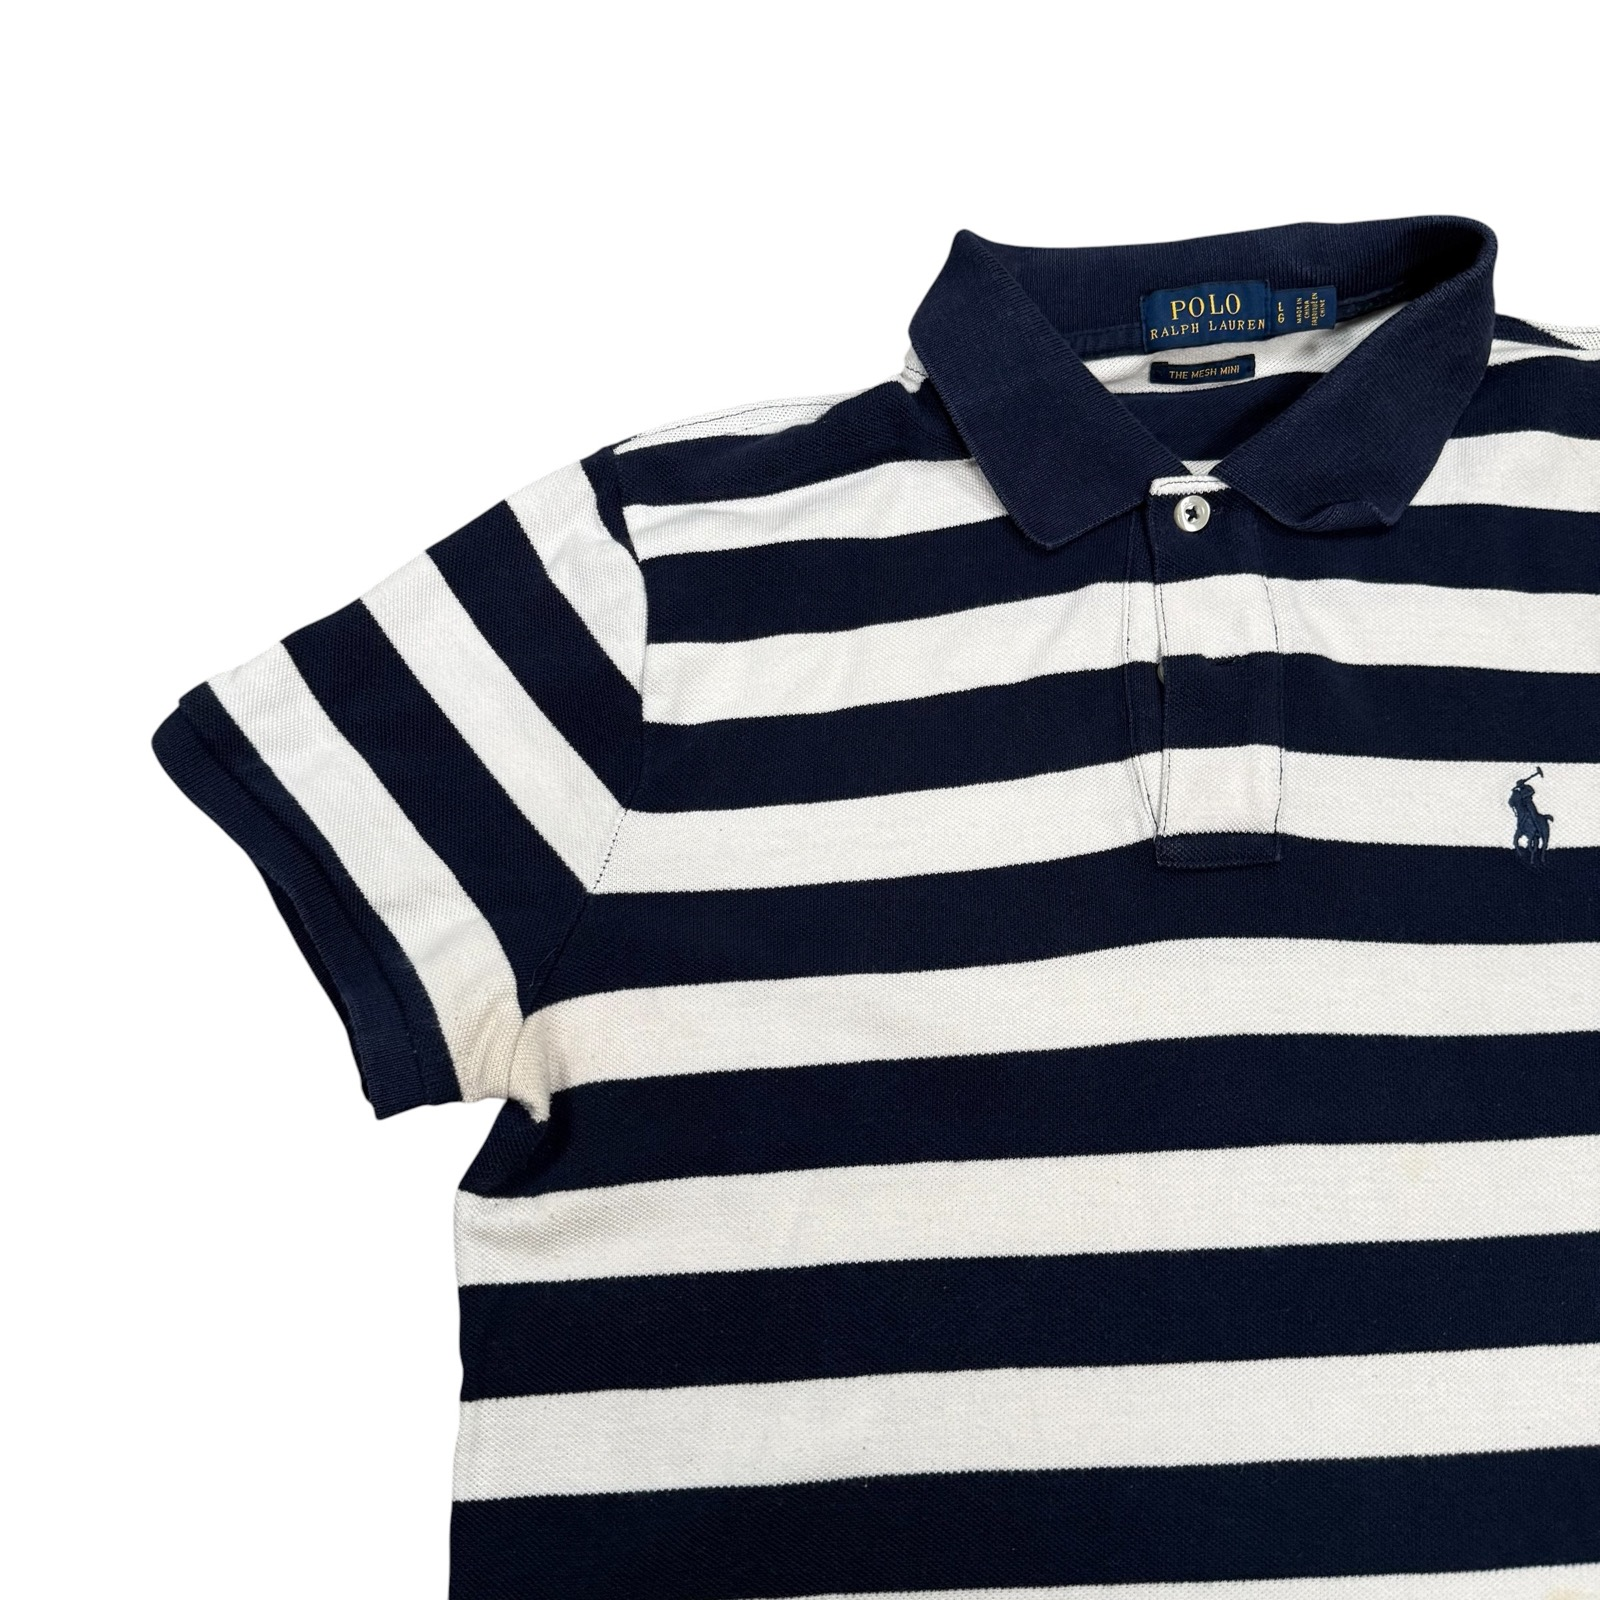
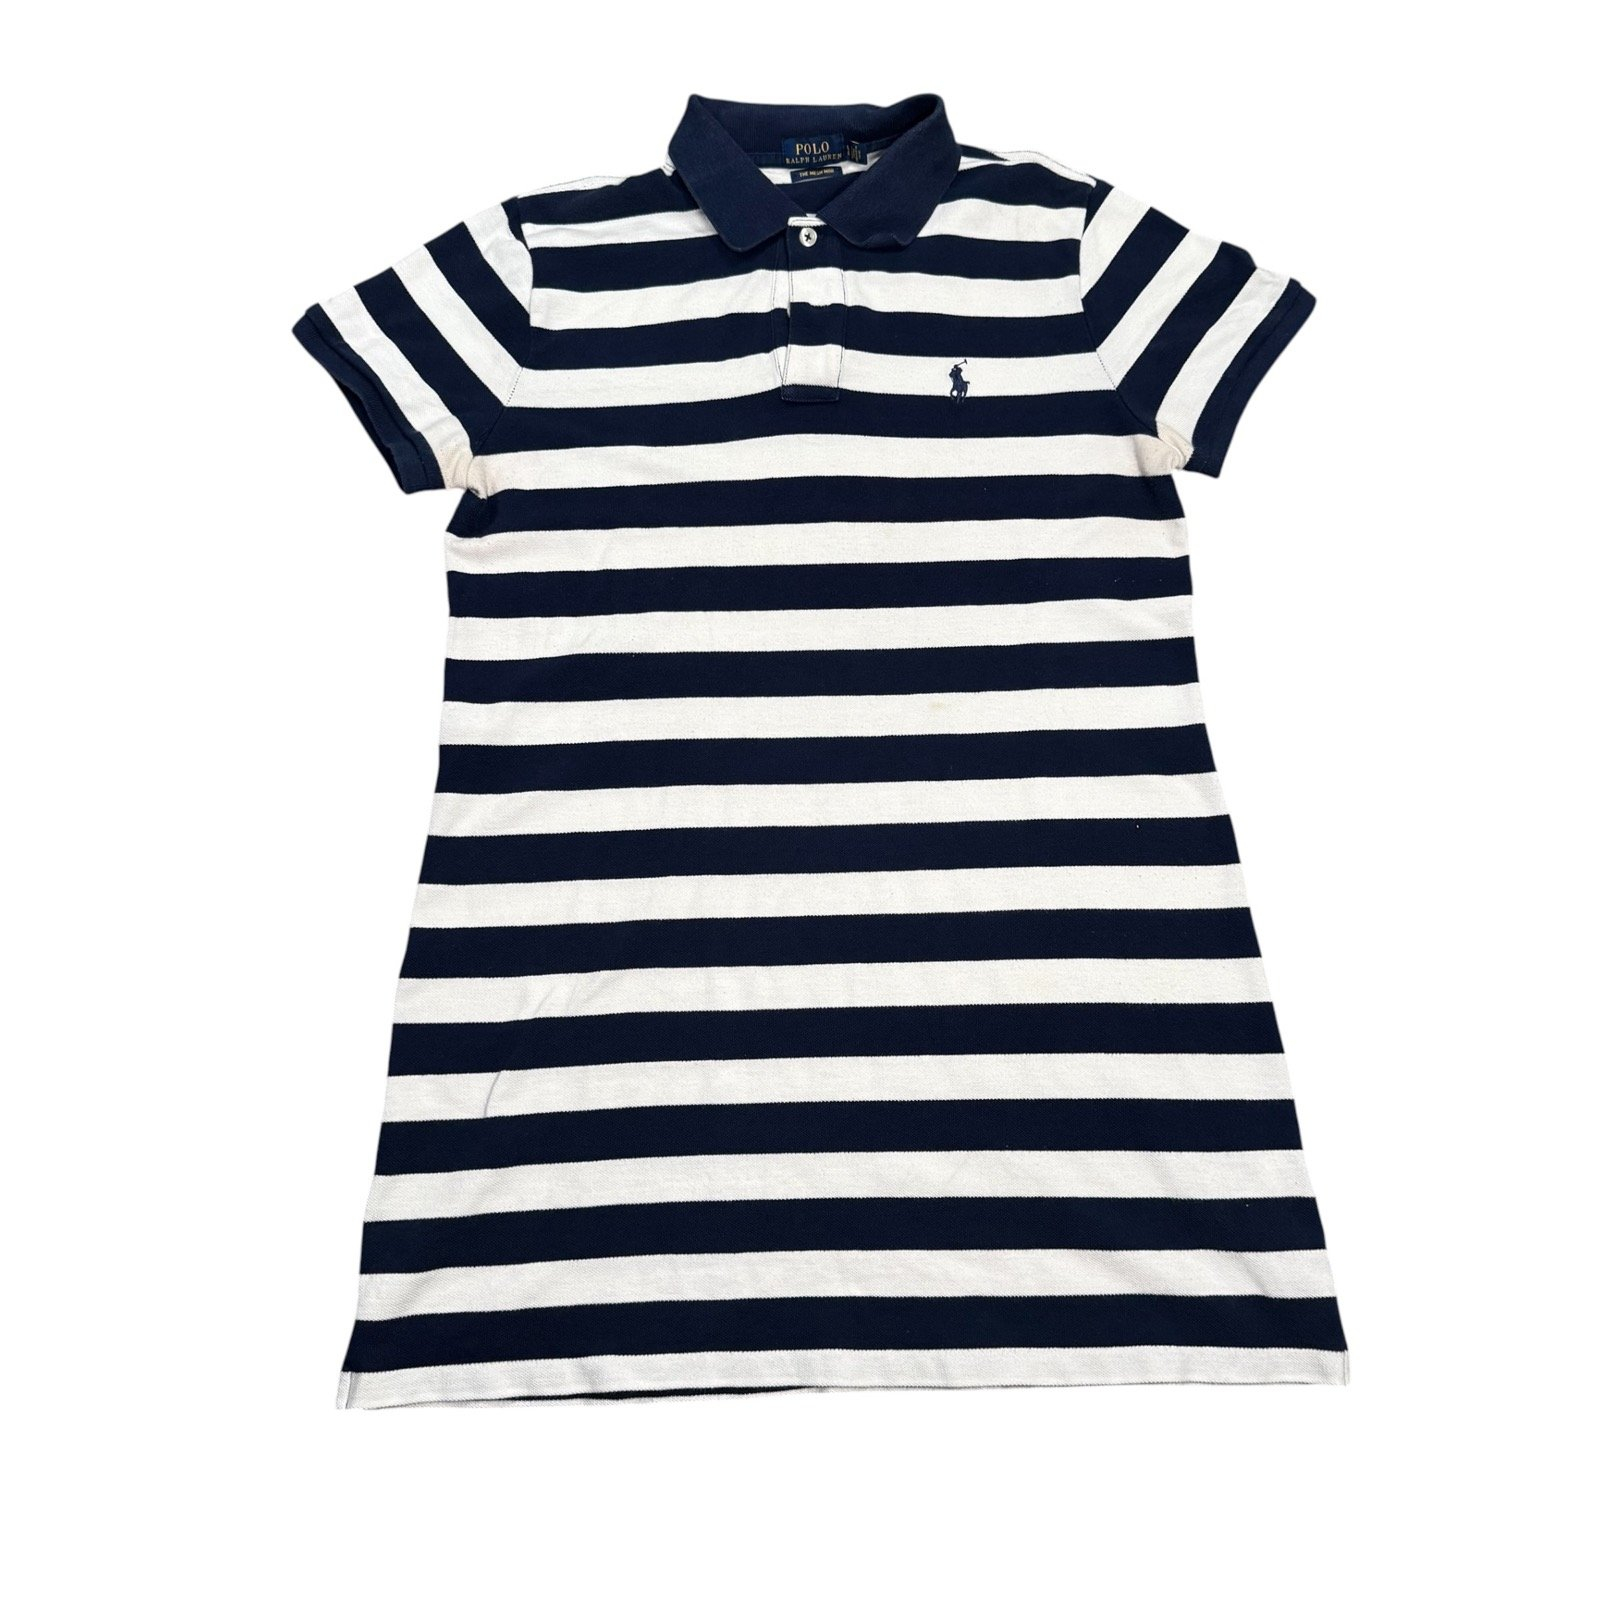
Drop every close-up crop from the product galleries
Eight photographs added earlier today were tight detail shots where the
garment runs off the frame. Fine as thumbnails, wrong in the new viewer,
which shows each one full screen. The two Ralph Lauren crops are
replaced by full-length shots of the same polo from the same shoot, at
the same resolution, so no quality is lost.

Also fixes inserts landing on the Ralph Lauren Polo Box instead of the
Ralph Lauren Polos lot: the two share an image folder, so the anchor
matched the box first. Both now carry all three photographs, and no
other folder is shared.

Claude-Session: https://claude.ai/code/session_01Px7wihV8B29XtPVFg8uA4F

diff --git a/site/src/data/catalogue.ts b/site/src/data/catalogue.ts
@@ -178,11 +178,11 @@ const catalogue: Product[] = [
       },
       {
         src: "/images/products/ralph-lauren-polos/02.jpg",
-        alt: "A Polo Ralph Lauren piqué polo on white: navy and cream block stripes with a navy collar and the pony embroidered on the chest.",
+        alt: "A Polo Ralph Lauren piqué polo laid flat on white: navy and cream block stripes, navy collar and the pony embroidered on the chest.",
       },
       {
         src: "/images/products/ralph-lauren-polos/03.jpg",
-        alt: "Close-up of the navy and cream striped Ralph Lauren polo, showing the Polo Ralph Lauren neck label and the embroidered pony.",
+        alt: "The same navy and cream striped Ralph Lauren polo laid flat on white, shown full length.",
       },
     ],
     // Shot portrait and at two different speeds; evened out to one pace,
@@ -285,16 +285,8 @@ const catalogue: Product[] = [
         alt: "A Lacoste colour-block piqué polo on white: a grey marl body with cream sleeves, a charcoal collar and placket, and the croc on the chest.",
       },
       {
-        src: "/images/products/lacoste-ralph-lauren-polos/03.jpg",
-        alt: "Close-up of the charcoal collar, buttoned placket and embroidered croc on a grey marl Lacoste polo.",
-      },
-      {
         src: "/images/products/lacoste-ralph-lauren-polos/04.jpg",
         alt: "A brown Lacoste piqué polo laid flat on white, with a two-button placket and the croc on the chest.",
-      },
-      {
-        src: "/images/products/lacoste-ralph-lauren-polos/05.jpg",
-        alt: "Close-up of a brown Lacoste polo: the ribbed collar, buttoned placket, woven Lacoste label and the embroidered croc.",
       },
       {
         src: "/images/products/lacoste-ralph-lauren-polos/06.jpg",
@@ -330,6 +322,14 @@ const catalogue: Product[] = [
       {
         src: "/images/products/ralph-lauren-polos/01.jpg",
         alt: "Four Polo Ralph Lauren piqué polos on white: navy, black and white stripe, pink marl and green marl.",
+      },
+      {
+        src: "/images/products/ralph-lauren-polos/02.jpg",
+        alt: "A Polo Ralph Lauren piqué polo laid flat on white: navy and cream block stripes, navy collar and the pony embroidered on the chest.",
+      },
+      {
+        src: "/images/products/ralph-lauren-polos/03.jpg",
+        alt: "The same navy and cream striped Ralph Lauren polo laid flat on white, shown full length.",
       },
     ],
     // Same rail as the Ralph Lauren Polo Box — one shoot, both listings.
@@ -455,10 +455,6 @@ const catalogue: Product[] = [
         src: "/images/products/mixed-premium-vintage-hoodies/02.jpg",
         alt: "A Trussardi zip-through hoodie laid flat on white: charcoal body with a patterned grey, black and white banded yoke and hood, and a full-length zip.",
       },
-      {
-        src: "/images/products/mixed-premium-vintage-hoodies/03.jpg",
-        alt: "Close-up of the Trussardi hoodie's banded hood and the embossed metal logo badge above the zip.",
-      },
     ],
     videos: [
       {
@@ -535,10 +531,6 @@ const catalogue: Product[] = [
         src: "/images/products/lacoste-jumpers-cardigans/06.jpg",
         alt: "A green IZOD Lacoste V-neck jumper laid flat on white, the croc embroidered on the chest.",
       },
-      {
-        src: "/images/products/lacoste-jumpers-cardigans/07.jpg",
-        alt: "Close-up of the embroidered croc and the knitted V-neck on a green Lacoste jumper.",
-      },
     ],
     videos: [
       {
@@ -580,10 +572,6 @@ const catalogue: Product[] = [
       {
         src: "/images/products/track-jackets-windbreakers/03.jpg",
         alt: "The back of the pale blue adidas hooded windbreaker, showing the crimson shoulder taping and the hood up.",
-      },
-      {
-        src: "/images/products/track-jackets-windbreakers/04.jpg",
-        alt: "Close-up of the adidas windbreaker: the crimson-lined hood, half zip, woven adidas neck label and the trefoil logo on the chest.",
       },
       {
         src: "/images/products/track-jackets-windbreakers/05.jpg",
@@ -762,10 +750,6 @@ const catalogue: Product[] = [
       {
         src: "/images/products/jackets-windbreaker-mix/05.jpg",
         alt: "The back of the two-tone blue Nike quarter-zip pullover, laid flat on white.",
-      },
-      {
-        src: "/images/products/jackets-windbreaker-mix/06.jpg",
-        alt: "Close-up of a navy Nike windbreaker: the embroidered Nike script and swoosh beside a full-length metal zip and the original woven neck label.",
       },
     ],
     videos: [

diff --git a/CHANGELOG.md b/CHANGELOG.md
@@ -12,6 +12,14 @@ Before reverting for a traffic drop, check the Monday analytics review first: th
 
 ---
 
+## v2026.10.03-6 — 2026-10-03 — commit `1b8005b`
+
+- **Every close-up crop removed from the galleries.** Eight of the photographs added earlier today were tight detail shots from the owner's retail listings — a collar, a croc, a hood — where the garment runs off the edge of the frame. They read fine as a thumbnail, but the new viewer shows each one full screen, where they look like a mistake rather than a detail. Gone from Jackets & Windbreakers, Track Jackets & Windbreakers, Lacoste Jumpers & Cardigans, Lacoste & Ralph Lauren Polos, Mixed Premium Vintage Hoodies and Ralph Lauren Polos. Every photograph on the site is now a whole garment.
+- The two Ralph Lauren crops are replaced by full-length shots of the same striped polo from the same shoot. No resizing and no re-cropping, so nothing lost any quality.
+- **Bug fixed:** the Ralph Lauren Polo Box shares an image folder with the Ralph Lauren Polos lot, so earlier inserts matched the box's photo list first and the lot kept only its original group shot. Both now carry all three. It was the only folder shared between two products, so nothing else was affected.
+
+---
+
 ## v2026.10.03-5 — 2026-10-03 — commit `4f410c5`
 
 - **A publishable key in the secret key slot is now refused too.** Stripe prints the publishable key in full on the API keys page and hides the secret behind a Reveal, so the two get swapped — and when they do, every checkout fails with `secret_key_required` and the buyer gets a dead button and a vague error. The site now treats anything that is not an `sk_` or `rk_` key as no key at all, in every environment, and falls back to the WhatsApp message instead. The server log names the prefix it found.
